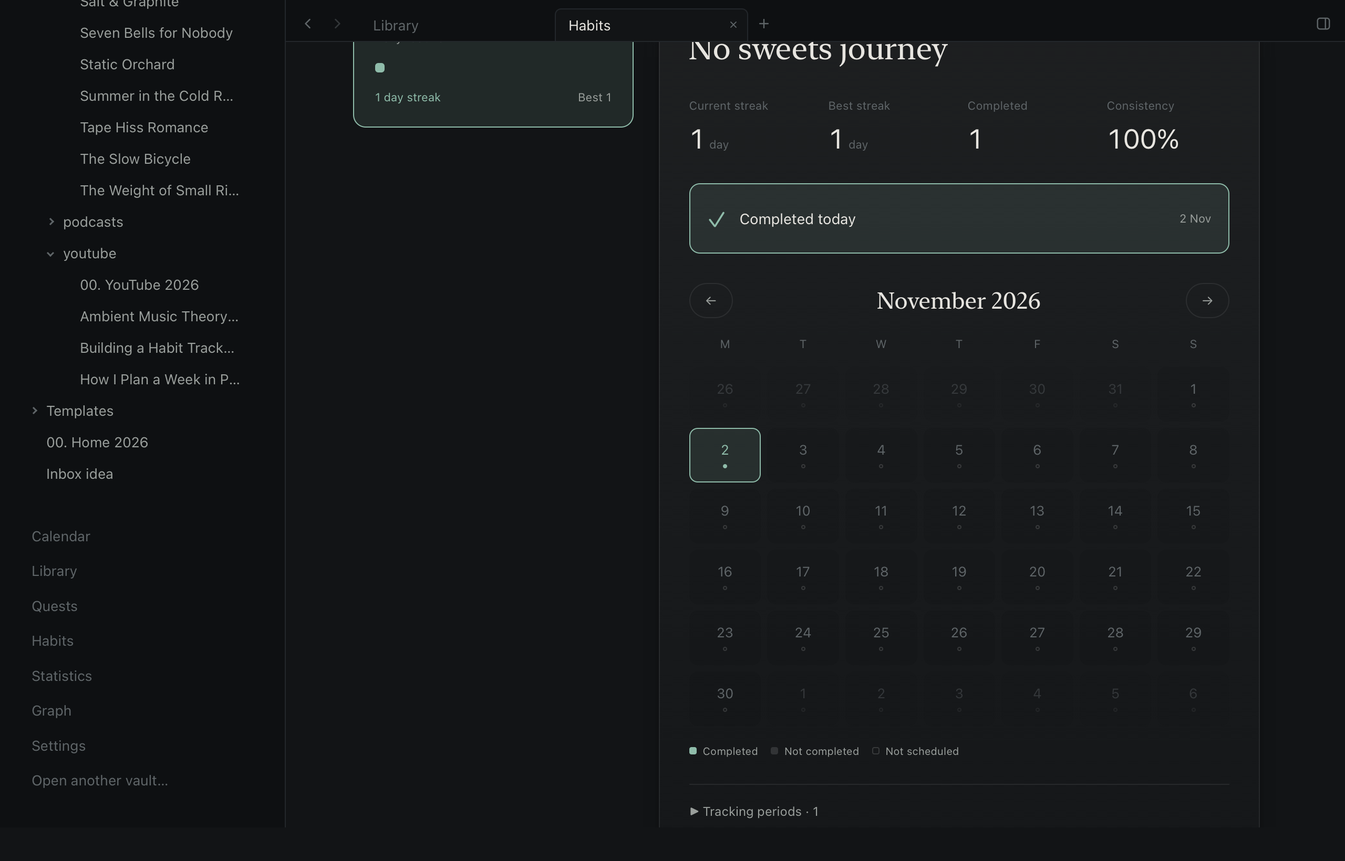
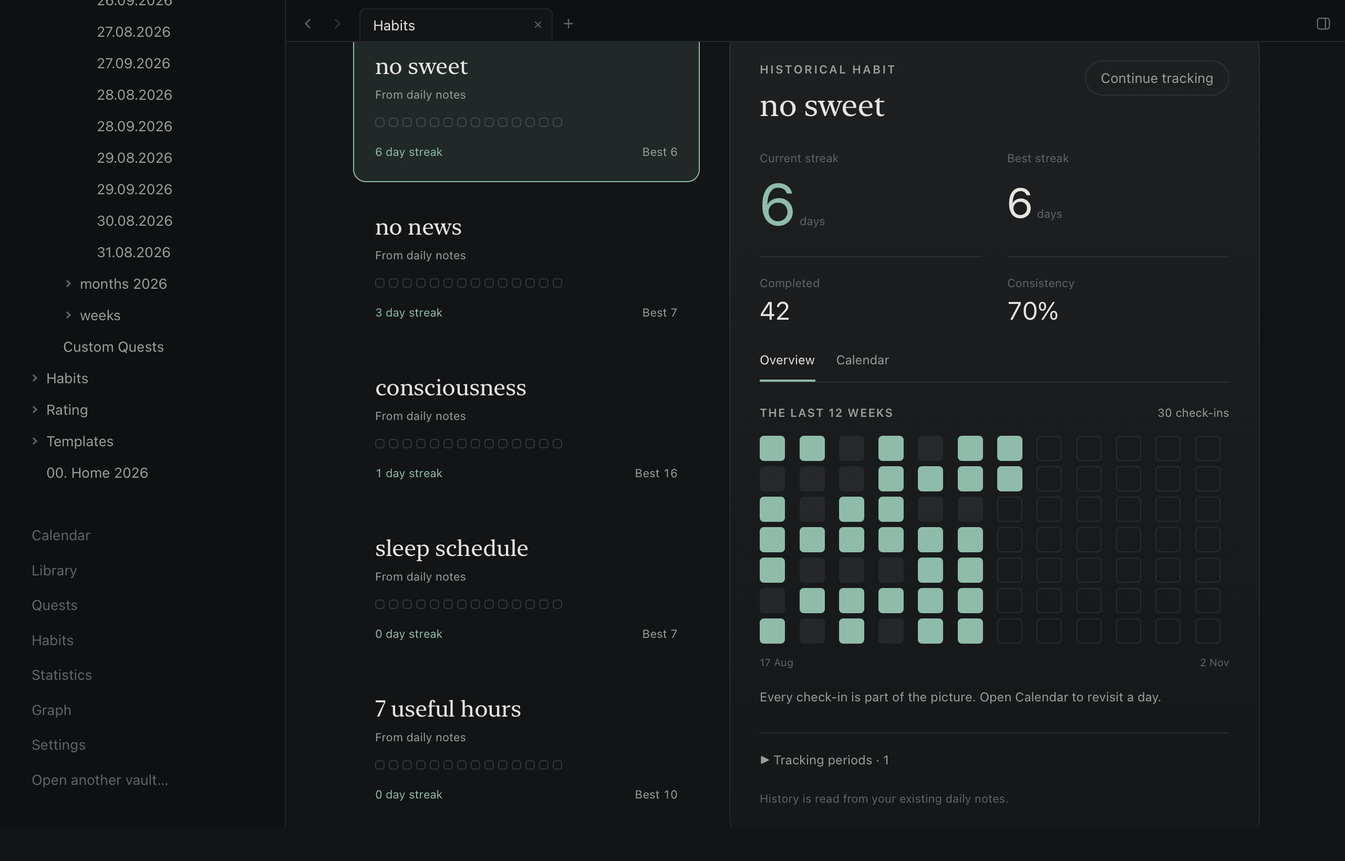
Refine habits with direct check-ins and compact progress history

diff --git a/src/components/habits/HabitsPage.tsx b/src/components/habits/HabitsPage.tsx
@@ -1,5 +1,6 @@
 import { useMemo, useState } from 'react';
-import { addDays, addMonths, formatDate, monthGrid, parseDate, startOfMonth } from '../../lib/dates';
+import { HabitDialog } from './HabitDialog';
+import { addDays, addMonths, formatDate, monthGrid, parseDate, startOfWeek, startOfMonth } from '../../lib/dates';
 import { discoveredHabits, habitActive, habitHistory, habitMatches, habitStats, type Habit, type HabitLifecycle, type HabitProblem } from '../../lib/habits';
 import type { DayEntry } from '../../lib/rollup';
 import { DateField } from '../DateField';
@@ -30,6 +31,7 @@ export function HabitsPage({ habits, problems, days, today, onCreate, onLifecycl
   const [busy, setBusy] = useState(false);
   const [problem, setProblem] = useState<string>();
   const [notice, setNotice] = useState<string>();
+  const [detailView, setDetailView] = useState<'Overview' | 'Calendar'>('Overview');
   const [month, setMonth] = useState(() => startOfMonth(today));
   const active = habits.filter((h) => live(h, today));
   const archived = habits.filter((h) => !live(h, today));
@@ -37,6 +39,7 @@ export function HabitsPage({ habits, problems, days, today, onCreate, onLifecycl
   const chosen = list.find((h) => h.id === selected) ?? list[0];
   const marks = chosen ? habitHistory(chosen, days, today) : [];
   const stats = habitStats(marks, today);
+  const recentCount = marks.filter((m) => m.done && m.date >= addDays(startOfWeek(today), -77)).length;
   const recent = useMemo(() => {
     const last = [...days].filter((d) => d.day?.habits.length).sort((a, b) => b.date.getTime() - a.date.getTime())[0];
     return history.filter((h) => last?.day?.habits.some((r) => habitMatches(h, r)));
@@ -66,30 +69,38 @@ export function HabitsPage({ habits, problems, days, today, onCreate, onLifecycl
 
   return <div className="periodic-frame habits-page" data-testid="habits-page">
     <header className="habits-head"><div><p className="kicker">Small actions, over time</p><h1>Habits</h1><p>Your routines can change. Your history stays with you.</p></div><button type="button" className="primary-button" disabled={busy} onClick={() => startForm('new')}>＋ New habit</button></header>
-    <div className="habits-overview"><div><span>Today</span><strong>{doneToday}<small> / {due.length}</small></strong><p>habits completed</p></div><div><span>In your routine</span><strong>{active.length}</strong><p>active or scheduled</p></div><div><span>Kept for later</span><strong>{archived.length}</strong><p>archived, with history</p></div></div>
+    <section className="habits-today" aria-label="Today's habit progress"><div><span className="kicker">{formatDate(today, 'dddd, D MMMM')}</span><p>{due.length ? doneToday === due.length ? 'Your routine is complete for today.' : `${due.length - doneToday} small ${due.length - doneToday === 1 ? 'step' : 'steps'} still ahead.` : 'A little intention, every day.'}</p></div><div className="habits-today-score"><strong>{doneToday}<small> / {due.length}</small></strong><span>completed today</span></div><div className="habits-today-track" aria-hidden="true"><i style={{ width: `${due.length ? doneToday * 100 / due.length : 0}%` }} /></div></section>
     {!enabled && <p className="habits-warning">Habits are hidden on daily and monthly pages. <button type="button" onClick={onOpenSettings}>Enable them in Settings</button></p>}
     {problems.length > 0 && <div className="habits-warning" role="alert"><strong>Some habit notes need attention</strong>{problems.map((p) => <p key={`${p.path}:${p.message}`}>{p.message} <button type="button" onClick={() => onOpenNote(p.path)}>Open note</button></p>)}</div>}
     {problem && <p className="habits-warning" role="alert">{problem}</p>}{notice && <p className="habits-notice" role="status">{notice}</p>}
-    {form && <form className="habits-form card glass" onSubmit={(event) => { event.preventDefault(); void submit(); }}>
+    {form && <HabitDialog busy={busy} onCancel={() => setForm(undefined)} title={form.kind === 'archive' ? 'Archive habit' : form.kind === 'resume' ? 'Reactivate habit' : 'New habit'}><form className="habits-form card glass" onSubmit={(event) => { event.preventDefault(); void submit(); }}>
       <div><p className="kicker">{form.habit?.name ?? 'A new daily routine'}</p><h2>{form.kind === 'archive' ? 'Make room for a break' : form.kind === 'resume' ? 'Bring this habit back' : form.kind === 'continue' ? 'Continue your history' : 'What would you like to practice?'}</h2></div>
       {form.kind === 'new' && <label className="field"><span>Habit name</span><input autoFocus maxLength={100} aria-label="Habit name" placeholder="No sweets, read a chapter, take a walk…" value={form.name} onChange={(event) => setForm({ ...form, name: event.target.value })} disabled={busy} /></label>}
       <label className="field"><span>{form.kind === 'archive' ? 'Archive from' : 'Start tracking from'}</span><DateField testId="habit-effective-date" label="Habit effective date" value={form.date} onChange={(date) => setForm({ ...form, date })} /></label>
       <p>{form.kind === 'archive' ? 'The habit will disappear from this date onward. Previous check-ins, calendars and your best streak stay available.' : 'The habit appears in daily notes from this date. Existing completions remain in their original notes.'}</p>
       {form.kind === 'resume' && <fieldset><legend>Streak after the break</legend><label><input type="radio" name="streak" checked={!form.restart} onChange={() => setForm({ ...form, restart: false })} /> Resume the paused streak</label><label><input type="radio" name="streak" checked={form.restart} onChange={() => setForm({ ...form, restart: true })} /> Start fresh; keep the previous best</label></fieldset>}
       <div className="habits-form-actions"><button type="button" className="quiet-chip" disabled={busy} onClick={() => setForm(undefined)}>Cancel</button><button className="primary-button" type="submit" disabled={busy || !form.name.trim() || !form.date}>{busy ? 'Saving…' : form.kind === 'archive' ? 'Archive habit' : 'Save habit'}</button></div>
-    </form>}
+    </form></HabitDialog>}
     {!active.length && recent.length > 0 && filter === 'Active' && <section className="habits-recent card glass"><div><span className="kicker">From your daily notes</span><h2>Continue your recent routine</h2><p>{recent.map((h) => h.name).join(' · ')}</p><p>Bring this set into your current days. All earlier check-ins stay connected.</p></div><button type="button" className="primary-button" disabled={busy} onClick={() => void run(async () => { let count = 0; for (const h of recent) { try { await onCreate(h.name, dateKey(today), h); count++; } catch (err) { throw new Error(`${count} habits added. ${(err as Error).message} Reopen the page to see the saved habits.`, { cause: err }); } } }, 'Your recent routine is active again.')}>Continue {recent.length} habits</button></section>}
     <div className="habits-toolbar" role="group" aria-label="Habit collection">{(['Active', 'Archived', 'History'] as const).map((name) => <button type="button" key={name} aria-pressed={filter === name} onClick={() => { setFilter(name); setSelected(undefined); }} className={filter === name ? 'is-selected' : ''}>{name}<small>{name === 'Active' ? active.length : name === 'Archived' ? archived.length : history.length}</small></button>)}</div>
     {!list.length ? <div className="habits-empty"><h2>{filter === 'Archived' ? 'A place for habits on pause' : filter === 'History' ? 'Your history starts with a check-in' : 'Make space for one small habit'}</h2><p>{filter === 'History' ? 'Habits found in older daily notes appear here, ready to continue.' : filter === 'Archived' ? 'Archive a habit when it no longer fits your routine. Bring it back whenever you are ready.' : 'Add a habit above, or continue a habit from History. It will appear in your daily notes.'}</p></div> : <div className="habits-layout"><div className="habits-list">{list.map((habit) => {
       const summary = habitStats(habitHistory(habit, days, today), today);
       const recentMarks = habitHistory(habit, days, today).slice(-14);
-      return <button type="button" key={habit.id} className={chosen?.id === habit.id ? 'habit-summary is-selected' : 'habit-summary'} aria-pressed={chosen?.id === habit.id} onClick={() => setSelected(habit.id)} data-testid="habit-summary"><span className="habit-summary-name">{habit.name}</span><span className="habit-summary-caption">{!habit.path ? 'From daily notes' : habitActive(habit, today) ? 'Daily routine' : live(habit, today) ? `Starts ${habit.periods.at(-1)!.from}` : 'Archived'}</span><span className="habit-summary-dots" aria-hidden="true">{recentMarks.map((mark) => <i key={dateKey(mark.date)} className={mark.done ? 'is-done' : mark.due ? '' : 'is-paused'} />)}</span><span className="habit-summary-records"><span>{summary.current} day streak</span><span>Best {summary.best}</span></span></button>;
+      const completed = days.some((d) => dateKey(d.date) === dateKey(today) && d.day?.habits.some((r) => habitMatches(habit, r) && r.done));
+      return <article key={habit.id} className={chosen?.id === habit.id ? 'habit-summary is-selected' : 'habit-summary'} data-testid="habit-summary">
+        <button type="button" className="habit-summary-select" aria-pressed={chosen?.id === habit.id} onClick={() => setSelected(habit.id)}><span className="habit-summary-name">{habit.name}</span><span className="habit-summary-caption">{!habit.path ? 'From daily notes' : habitActive(habit, today) ? 'Every day' : live(habit, today) ? `Starts ${habit.periods.at(-1)!.from}` : 'On pause'}</span><span className="habit-summary-dots" aria-hidden="true">{recentMarks.map((mark) => <i key={dateKey(mark.date)} className={mark.done ? 'is-done' : mark.due ? '' : 'is-paused'} />)}</span><span className="habit-summary-records"><span>{summary.current} day streak</span><span>Best {summary.best}</span></span></button>
+        {habit.path && habitActive(habit, today) && <button type="button" className={completed ? 'habit-quick-check is-done' : 'habit-quick-check'} disabled={busy} aria-label={`${completed ? 'Undo today for' : 'Complete today for'} ${habit.name}`} aria-pressed={completed} onClick={() => void run(() => onComplete(today, habit, completed, !completed))}>{completed ? '✓' : <span />}</button>}
+      </article>;
+
     })}</div>{chosen && <section className="habits-detail card glass" data-testid="habit-detail"><div className="habits-detail-head"><div><p className="kicker">{!chosen.path ? 'Historical habit' : live(chosen, today) ? 'Your daily practice' : 'On pause'}</p><h2>{chosen.name}</h2></div>{!chosen.path ? <button type="button" className="quiet-chip" disabled={busy} onClick={() => startForm('continue', chosen)}>Continue tracking</button> : <button type="button" className="quiet-chip" disabled={busy} onClick={() => startForm(live(chosen, today) ? 'archive' : 'resume', chosen)}>{live(chosen, today) ? 'Archive' : 'Reactivate'}</button>}</div>
       <div className="habits-stats"><div><span>Current streak</span><strong>{stats.current}<small> {stats.current === 1 ? 'day' : 'days'}</small></strong></div><div><span>Best streak</span><strong>{stats.best}<small> {stats.best === 1 ? 'day' : 'days'}</small></strong></div><div><span>Completed</span><strong>{stats.completed}</strong></div><div><span>Consistency</span><strong>{stats.rate === undefined ? '—' : `${stats.rate}%`}</strong></div></div>
       {chosen.path && habitActive(chosen, today) && <button type="button" className={marks.at(-1)?.done ? 'habits-check-today is-done' : 'habits-check-today'} disabled={busy} aria-pressed={marks.at(-1)?.done ?? false} onClick={() => void run(() => onComplete(today, chosen, marks.at(-1)?.done ?? false, !marks.at(-1)?.done))}><span>{marks.at(-1)?.done ? '✓' : '○'}</span>{marks.at(-1)?.done ? 'Completed today' : 'Mark today complete'}<small>{formatDate(today, 'D MMM')}</small></button>}
+      <div className="habit-detail-tabs" role="group" aria-label="Habit history view">{(['Overview', 'Calendar'] as const).map((view) => <button type="button" key={view} aria-pressed={detailView === view} onClick={() => setDetailView(view)}>{view}</button>)}</div>
+      {detailView === 'Overview' ? <div className="habit-history-overview"><div className="habit-history-heading"><span className="money-label">The last 12 weeks</span><span>{recentCount} {recentCount === 1 ? 'check-in' : 'check-ins'}</span></div><div className="habit-history-grid" role="img" aria-label={`${chosen.name}: last 12 weeks of completion history`}>{Array.from({ length: 84 }, (_, i) => { const date = addDays(startOfWeek(today), i - 77);const key = dateKey(date);const mark = marks.find((m) => dateKey(m.date) === key);return <i key={key} title={`${formatDate(date, 'D MMM')}: ${mark?.done ? 'Completed' : mark?.due ? 'Not completed' : 'Not scheduled'}`} className={mark?.done ? 'is-done' : mark?.due ? 'is-due' : ''} />; })}</div><div className="habit-history-range"><span>{formatDate(addDays(startOfWeek(today), -77), 'D MMM')}</span><span>{formatDate(today, 'D MMM')}</span></div><p className="habit-history-note">Every check-in is part of the picture. Open Calendar to revisit a day.</p></div> : <>
       <div className="habits-calendar-head"><button type="button" aria-label="Previous habit month" className="quiet-chip" onClick={() => setMonth(addMonths(month, -1))}>←</button><h3>{formatDate(month, 'MMMM YYYY')}</h3><button type="button" aria-label="Next habit month" className="quiet-chip" onClick={() => setMonth(addMonths(month, 1))}>→</button></div>
       <div className="habits-calendar" aria-label={`${chosen.name} history`}>{['M', 'T', 'W', 'T', 'F', 'S', 'S'].map((label, i) => <span className="habits-weekday" key={i}>{label}</span>)}{monthGrid(month).map((week) => week.map((date) => { const key = dateKey(date); const mark = marks.find((m) => dateKey(m.date) === key); const future = key > dateKey(today); const outside = date.getMonth() !== month.getMonth(); const state = future ? 'Future' : mark?.done ? 'Completed' : mark?.due ? key === dateKey(today) ? 'Pending' : 'Not completed' : 'Not scheduled'; return <button type="button" key={key} disabled={future} title={`${formatDate(date, 'D MMM YYYY')} · ${state} · open daily note`} aria-label={`${formatDate(date, 'D MMM YYYY')}: ${state}`} className={`habits-calendar-day${mark?.done ? ' is-done' : ''}${mark?.due ? ' is-due' : ''}${outside ? ' is-outside' : ''}${key === dateKey(today) ? ' is-today' : ''}`} onClick={() => onOpenDay(date)}>{date.getDate()}<i /></button>; }))}</div>
       <div className="habits-legend"><span><i className="is-done" />Completed</span><span><i />Not completed</span><span><i className="is-paused" />Not scheduled</span></div>
+      </>}
       <details className="habits-periods"><summary>Tracking periods · {chosen.periods.length}</summary>{chosen.periods.map((p, i) => <p key={`${p.from}:${i}`}>{p.from === p.until ? 'Archived before tracking began · ' : ''}{formatDate(parseDate(p.from, 'YYYY-MM-DD')!, 'D MMM YYYY')}{p.from === p.until ? '' : ' — '}{p.from === p.until ? '' : p.until ? formatDate(addDays(parseDate(p.until, 'YYYY-MM-DD')!, -1), 'D MMM YYYY') : 'ongoing'}{p.reset ? ' · new streak' : ''}</p>)}<p>Days on pause do not count as missed. Your best streak is always retained.</p></details>
       <p className="habits-source">{chosen.path ? <button type="button" onClick={() => onOpenNote(chosen.path!)}>Open habit note ↗</button> : 'History is read from your existing daily notes.'}</p>
     </section>}</div>}

diff --git a/src/components/habits/habits.css b/src/components/habits/habits.css
@@ -77,3 +77,51 @@
 .daily-habit-header p { margin: 0; color: var(--text-muted); font-size: 13px; }
 @container (max-width: 760px) { .habits-layout { grid-template-columns: 1fr; } .habits-list { grid-template-columns: repeat(2, minmax(0, 1fr)); } .habits-recent { align-items: start; flex-direction: column; } }
 @container (max-width: 480px) { .habits-head { flex-direction: column; align-items: start; } .habits-list { grid-template-columns: 1fr; } .habits-overview > div + div { padding-left: 12px; } .habits-stats { grid-template-columns: repeat(2, minmax(0, 1fr)); } .habits-detail { padding: 20px; } .habits-calendar { gap: 3px; } }
+/* Productive's direct daily actions, HabitKit's history, in Epizen's sage palette. */
+.habits-head { margin-bottom: 24px; }
+.habits-head h1 { font-size: 52px; }
+.habits-today { position: relative; display: flex; align-items: center; justify-content: space-between; gap: 24px; padding: 24px 0 28px; border-top: 1px solid var(--glass-line); }
+.habits-today p { margin: 8px 0 0; color: var(--text-muted); font: 20px var(--display); }
+.habits-today-score { text-align: right; }
+.habits-today-score strong { display: block; font: 40px var(--numbers); font-variant-numeric: tabular-nums; }
+.habits-today-score small { font-size: 22px; color: var(--text-faint); }
+.habits-today-score > span { color: var(--text-muted); font-size: 11px; }
+.habits-today-track { position: absolute; bottom: 0; left: 0; right: 0; height: 3px; background: var(--glass-line); border-radius: 3px; overflow: hidden; }
+.habits-today-track i { display: block; height: 100%; background: var(--accent); transition: width 180ms ease-out; }
+.habits-layout { grid-template-columns: minmax(250px, .85fr) minmax(0, 1.3fr); gap: 28px; }
+.habit-summary { position: relative; padding: 0; border-color: transparent; background: transparent; }
+.habit-summary:not(.is-selected):hover { background: rgb(255 255 255 / 3%); }
+.habit-summary-select { display: block; width: 100%; padding: 20px; text-align: left; }
+.habit-summary-name { padding-right: 42px; font: 22px var(--display); }
+.habit-summary-caption { margin-bottom: 14px; }
+.habit-summary-records { font-variant-numeric: tabular-nums; }
+.habit-quick-check { position: absolute; right: 16px; top: 16px; display: grid; place-items: center; width: 34px; height: 34px; border: 1px solid var(--glass-line-strong); border-radius: 50%; color: var(--bg); font-size: 20px; transition: background var(--motion-fast) ease-out, border-color var(--motion-fast) ease-out; }
+.habit-quick-check:hover { border-color: var(--accent); background: var(--accent-soft); }
+.habit-quick-check.is-done { background: var(--accent); border-color: var(--accent); }
+.habits-stats { grid-template-columns: repeat(2, minmax(0, 1fr)); margin: 24px 0; gap: 20px 24px; }
+.habits-stats > div:first-child strong { color: var(--accent); font: 56px/1.1 var(--numbers); }
+.habits-stats > div:nth-child(2) strong { font: 40px/1.5 var(--numbers); }
+.habits-stats > div:nth-child(n+3) { padding-top: 16px; border-top: 1px solid var(--glass-line); }
+.habits-stats strong { margin-top: 4px; font-size: 24px; }
+.habit-detail-tabs { display: flex; gap: 20px; margin: 24px 0 20px; border-bottom: 1px solid var(--glass-line); }
+.habit-detail-tabs button { padding: 0 0 10px; border-bottom: 2px solid transparent; color: var(--text-muted); font-size: 12px; }
+.habit-detail-tabs button[aria-pressed="true"] { border-color: var(--accent); color: var(--text); }
+.habit-history-heading { display: flex; justify-content: space-between; gap: 12px; margin-bottom: 14px; }
+.habit-history-heading > span:last-child { color: var(--text-muted); font-size: 11px; }
+.habit-history-grid { display: grid; grid-template-rows: repeat(7, 1fr); grid-auto-flow: column; grid-auto-columns: 1fr; gap: 5px; }
+.habit-history-grid i { aspect-ratio: 1; max-height: 24px; border: 1px solid var(--glass-line); border-radius: 4px; background: transparent; }
+.habit-history-grid .is-due { background: rgb(255 255 255 / 6%); border-color: transparent; }
+.habit-history-grid .is-done { background: var(--accent); border-color: transparent; }
+.habit-history-range { display: flex; justify-content: space-between; margin-top: 10px; color: var(--text-faint); font-size: 10px; }
+.habit-history-note { margin: 16px 0 24px; color: var(--text-muted); font-size: 12px; line-height: 1.6; }
+.habits-calendar-head { margin-top: 0; }
+.habits-calendar-day { min-height: 40px; }
+@container (max-width: 760px) { .habits-layout { grid-template-columns: 1fr; } .habits-list { grid-template-columns: repeat(2, minmax(0, 1fr)); } }
+@container (max-width: 480px) { .habits-list { grid-template-columns: 1fr; } .habits-today { align-items: end; gap: 16px; } .habits-today p { font-size: 17px; } }
+.habits-dialog { position: fixed; inset: 0; z-index: 120; display: grid; place-items: center; padding: 24px; background: rgb(0 0 0 / 60%); }
+.habits-dialog > [role="dialog"] { width: min(620px, 100%); max-height: calc(100dvh - 48px); overflow-y: auto; border-radius: 18px; }
+.habits-dialog .habits-form { width: 100%; margin: 0; padding: 32px; background: var(--surface); }
+@media (prefers-reduced-motion: reduce) { .habits-today-track i { transition: none; } }
+.habits-dialog > [role="dialog"] { animation: habits-dialog-enter 160ms ease-out both; }
+@keyframes habits-dialog-enter { from { opacity: 0; transform: translateY(6px); } to { opacity: 1; transform: translateY(0); } }
+@media (prefers-reduced-motion: reduce) { .habits-dialog > [role="dialog"] { animation: none; } }

diff --git a/src/components/habits/HabitsPage.test.tsx b/src/components/habits/HabitsPage.test.tsx
@@ -40,6 +40,7 @@ it('archives, views history and reactivates the same habit with an explicit stre
   expect(lifecycle).toHaveBeenLastCalledWith('habit-sweets-001', { kind: 'archive', date: '2026-11-02' });
   expect(screen.getByRole('button', { name: 'Archived1' })).toHaveAttribute('aria-pressed', 'true');
   expect(screen.getByTestId('habit-detail')).toHaveTextContent('Best streak1 day');
+  await user.click(screen.getByRole('button', { name: 'Calendar' }));
   expect(screen.getByRole('button', { name: '1 Nov 2026: Completed' })).toBeInTheDocument();
   await user.click(screen.getByRole('button', { name: 'Reactivate' }));
   await user.click(screen.getByRole('radio', { name: /Start fresh/ }));
@@ -69,4 +70,25 @@ it('prevents duplicate clicks during a completion write and surfaces the rejecti
   act(() => finish?.());
   expect(await screen.findByRole('alert')).toHaveTextContent('changed outside');
   expect(button).toBeEnabled();
+});
+
+it('checks in directly from a habit card without opening its history first', async () => {
+  const user = userEvent.setup();const p = props();render(<HabitsPage {...p} />);
+  await user.click(screen.getByRole('button', { name: 'Complete today for No sweets' }));
+  expect(p.onComplete).toHaveBeenCalledWith(TODAY, expect.objectContaining({ id: 'habit-sweets-001' }), false, true);
+});
+
+it('contains the creation dialog focus and cancels without creating a note', async () => {
+  const user = userEvent.setup();const p = props();render(<HabitsPage {...p} />);
+  const add = screen.getByRole('button', { name: /New habit/ });
+  await user.click(add);
+  const dialog = screen.getByRole('dialog', { name: 'New habit' });
+  expect(within(dialog).getByLabelText('Habit name')).toHaveFocus();
+  await user.type(within(dialog).getByLabelText('Habit name'), 'Read a chapter');
+  within(dialog).getByRole('button', { name: 'Save habit' }).focus();
+  await user.tab();
+  expect(within(dialog).getByLabelText('Habit name')).toHaveFocus();
+  await user.keyboard('{Escape}');
+  expect(screen.queryByRole('dialog')).not.toBeInTheDocument();
+  expect(add).toHaveFocus();expect(p.onCreate).not.toHaveBeenCalled();
 });

diff --git a/e2e/specs/vault.e2e.ts b/e2e/specs/vault.e2e.ts
@@ -1920,6 +1920,7 @@ describe('the demo vault', () => {
     const before = snapshotVault(vaultCopy());
     await $('button*=New habit').click();
     await $('[aria-label="Habit name"]').setValue('No sweets journey');
+    await screenshot('148-habit-create-dialog');
     await $('button=Save habit').click();
     await $('[data-testid="habit-detail"]').waitForDisplayed();
     const names = [...snapshotVault(vaultCopy()).keys()].filter((path) => path.startsWith('Habits/') && !before.has(path));
@@ -1932,6 +1933,8 @@ describe('the demo vault', () => {
     const fullDay = join(vaultCopy(), todayPath);
     expect(readFileSync(fullDay, 'utf8')).toContain(`[habit::${id}]`);
     const completed = readFileSync(fullDay, 'utf8');
+    await browser.execute(() => document.querySelector('main')?.scrollTo({ top: 0 }));
+    await screenshot('147-habits-top');
     await scrollIntoView('.habits-layout');
     await screenshot('140-habits-active');
     await browser.setWindowSize(900, 900);
@@ -1982,6 +1985,11 @@ describe('the demo vault', () => {
     await screenshot('144-summary-bands');
     const changes = diffSnapshots(before, snapshotVault(vaultCopy()));
     expect(changes.filter((change) => !change.endsWith(definition) && !change.endsWith(todayPath))).toEqual([]);
+    await $('[data-testid="open-habits"]').click();
+    await $('button*=History').click();
+    await $('button*=no sweet').click();
+    await scrollIntoView('[data-testid="habit-detail"]');
+    await screenshot('146-habits-history-design');
   });
 
 });

diff --git a/src/components/habits/HabitDialog.tsx b/src/components/habits/HabitDialog.tsx
@@ -1,0 +1,20 @@
+import { useEffect, useRef, type ReactNode } from 'react';
+import { createPortal } from 'react-dom';
+
+/** A short, contained schedule edit that leaves the routine's scroll position in place. */
+export function HabitDialog({ children, title, busy, onCancel }: { children: ReactNode; title: string; busy: boolean; onCancel: () => void }) {
+  const node = useRef<HTMLDivElement>(null);
+  useEffect(() => {
+    const previous = document.activeElement instanceof HTMLElement ? document.activeElement : undefined;
+    node.current?.querySelector<HTMLElement>('input, button')?.focus();
+    return () => previous?.focus();
+  }, []);
+  return createPortal(<div className="periodic-layer habits-dialog"><div ref={node} role="dialog" aria-modal="true" aria-label={title} onKeyDown={(event) => {
+    if (event.key === 'Escape' && !busy) { event.preventDefault();event.stopPropagation();onCancel(); }
+    if (event.key !== 'Tab') return;
+    const fields = [...(node.current?.querySelectorAll<HTMLElement>('input:not([disabled]), button:not([disabled]), select:not([disabled]), textarea:not([disabled]), [tabindex="0"]') ?? [])];
+    const first = fields[0];const last = fields.at(-1);
+    if (event.shiftKey && document.activeElement === first) { event.preventDefault();last?.focus(); }
+    else if (!event.shiftKey && document.activeElement === last) { event.preventDefault();first?.focus(); }
+  }}>{children}</div></div>, document.body);
+}

diff --git a/releases/0.5.0.md b/releases/0.5.0.md
@@ -1,6 +1,6 @@
 # Epizen 0.5.0
 
-A daily routine that can change without losing its history, and clearer colours for your check-ins.
+A daily routine that can change without losing its history, with a refined checklist and clearer check-in colours.
 
 ## Habits, across months
 
@@ -8,6 +8,8 @@ The sidebar now has a **Habits** screen with Active, Archived and History collec
 daily habit, or continue your most recent habit set from existing daily notes. Older habits can
 also be continued individually from History. This is an explicit choice; opening the app does
 not modify personal notes.
+
+Direct check-in buttons keep today’s routine within reach. A compact twelve-week history grid, focused editing dialogs and clear streak hierarchy were refined using Productive, HabitKit and (Not Boring) Habits references through Appllama.
 
 Each habit has a calendar, current and best streaks, total completions and consistency. Active
 habits appear in daily Overview and Habits, and in weekly/monthly totals even on a date without
@@ -39,7 +41,7 @@ Colour decisions use unrounded averages so display rounding does not move a boun
 Conditional saves protect outside edits. Duplicate identities, malformed schedules and duplicate
 completion records are reported. Archive and resume change only the habit's schedule; daily
 history stays in its original notes. The full local gate and production checks are recorded in
-the release PR before publication. The full local run passed 692 frontend tests, 65 Rust tests
+the release PR before publication. The full local run passed the frontend and Rust tests
 and all 60 desktop journeys; the demo fixture stayed unchanged. Wide/narrow screenshots and
 the production app build were reviewed.
 

diff --git a/docs/habits.md b/docs/habits.md
@@ -45,3 +45,17 @@ Older habit records without IDs are matched by their names and aliases. Do not c
 habit for a return to an old routine: reactivate the existing definition to keep one history.
 Conflicting IDs, names, malformed schedules and duplicate daily records are reported, rather
 than silently edited. If you rename a definition by hand, keep the former name in `aliases`.
+
+## The daily flow
+
+The Today strip shows how much of the routine is complete. Each active habit has its own direct
+check-in button; selecting the habit opens its history without changing its completion. Overview
+shows the current and best streaks and twelve weeks of check-ins. Calendar opens the detailed
+monthly view, where a date leads to its daily note. Creation and schedule edits open in a compact
+dialog so the current place in the routine stays put.
+
+The visual references studied through Appllama were Productive's dark Today dashboard
+(`983826477/oth_zd2m0`), HabitKit's dashboard and detail (`6443918070/oth_48ehi`,
+`6443918070/oth_pcexw`), and (Not Boring) Habits' statistics and monthly summary
+(`1593891243/oth_8fgk9`, `1593891243/oth_osxyx`). The adopted patterns are direct daily actions,
+compact history grids and clear numerical hierarchy, expressed in Epizen's own palette and type.
